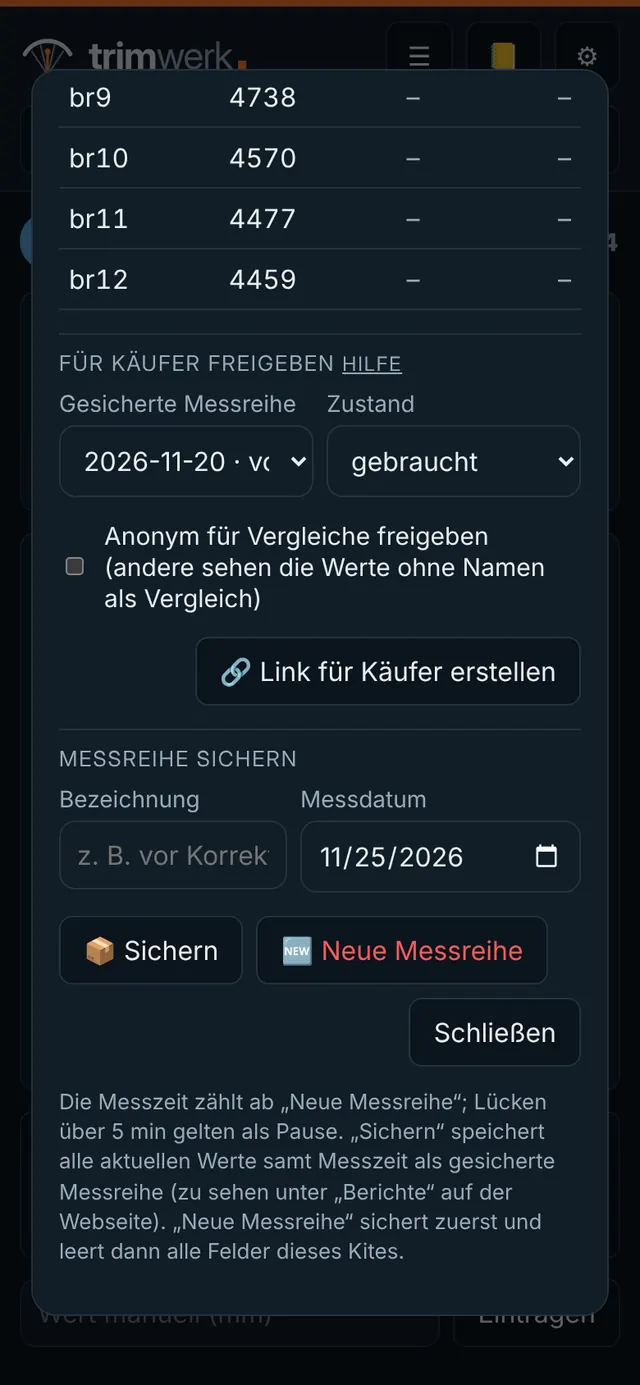
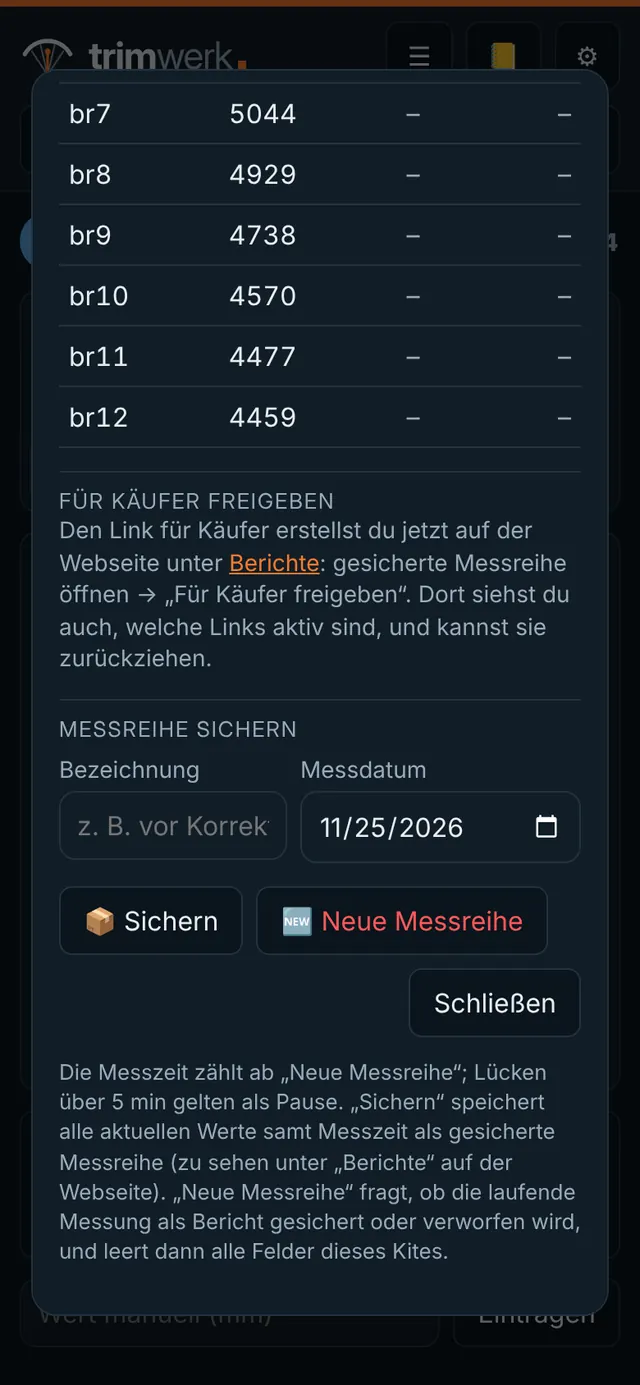
Berichte: komplette Messreihe im Protokoll, Käufer-Link (erstellen, teilen, zurückziehen) aus der App in die Berichte verschoben, Leinenvergleich standardmäßig offen; Hilfe und Screenshots aktualisiert
Claude-Session: https://claude.ai/code/session_01SxsauJVYFXbDRSU68pG8U5

diff --git a/berichte/index.html b/berichte/index.html
@@ -99,6 +99,23 @@ table.t{width:100%;border-collapse:collapse;font-size:14px}
 .toolbar{display:flex;gap:10px;flex-wrap:wrap;align-items:center}
 details summary{cursor:pointer;font:600 15px var(--f-display);letter-spacing:.06em;text-transform:uppercase;color:var(--accent-ink);margin-top:12px}
 .err{color:var(--bad)}
+.mr td.ok{color:var(--ok)} .mr td.warn{color:var(--warn)} .mr td.bad{color:var(--bad)}
+.mr td.nil{color:var(--pre)}
+.mr th,.mr td{padding:6px 8px}
+.paired .mr,.rep.b .mr{font-size:13px}
+details.sheet>summary{list-style:none;display:flex;justify-content:space-between;align-items:center;gap:10px;margin:0;color:var(--ink);text-transform:none;letter-spacing:0;font:inherit}
+details.sheet>summary::-webkit-details-marker{display:none}
+details.sheet>summary h3{font-size:24px;margin:0}
+details.sheet>summary .chev{color:var(--ink-2);font-size:14px}
+details.sheet[open]>summary{margin-bottom:12px}
+.shbox .f2{display:grid;grid-template-columns:1fr 1fr;gap:12px;align-items:end}
+@media (max-width:560px){.shbox .f2{grid-template-columns:1fr}}
+.shbox label{display:block;font-size:13px;color:var(--ink-2);margin-bottom:4px}
+.shbox select,.shbox input[type=text]{width:100%;background:var(--paper);border:1.5px solid var(--rule);border-radius:8px;color:var(--ink);padding:10px 12px;font:inherit}
+.shbox .chk{display:flex;gap:8px;align-items:flex-start;margin:12px 0;font-size:14.5px;color:var(--ink)}
+.shbox .chk input{accent-color:var(--accent);width:18px;height:18px;margin-top:2px}
+.shbox .qr{background:#fff;padding:10px;border-radius:8px;width:max-content;margin:12px 0}
+.shbox .row{display:flex;gap:10px;flex-wrap:wrap}
 .vbtn{font:600 12.5px var(--f-display);letter-spacing:.08em;text-transform:uppercase;border:1.5px solid var(--rule);background:none;color:var(--ink-2);border-radius:999px;padding:3px 10px;cursor:pointer;white-space:nowrap}
 .vbtn[aria-pressed="true"]{border-color:var(--accent);color:var(--accent)}
 .grp-h .acts{display:flex;gap:6px;flex-wrap:wrap;justify-content:flex-end}
@@ -317,6 +334,7 @@ function report(rep, slot, paired){
       <div><div class="lbl">${tag}Leinenvermessung · Protokoll</div><h2>${esc(kiteTitle(rep.kite))}</h2></div>
       <div class="meta">${metaCells.map(([l,v]) => `<div><div class="lbl">${l}</div><div class="v">${esc(v)}</div></div>`).join('')}</div>
     </header>
+    ${paired ? '' : shareBox(rep)}
     <section class="kpis" aria-label="Kennzahlen">
       ${kpi('Symmetrie', isNaN(a.sym) ? '–' : a.sym, '%', 'Leinenpaare innerhalb ±5 mm')}
       ${kpi('Ebenenabgleich', isNaN(a.gap) ? '–' : r0(a.gap), 'mm', 'größter Abstand B/C zur A-Ebene')}
@@ -343,7 +361,99 @@ function report(rep, slot, paired){
       <div class="secthead"><h3>Trimm-Logbuch</h3><span class="lbl">${dt(rep.datum)}</span></div>
       ${logRows(rep)}
     </section>
+    <section class="sheet">
+      <div class="secthead"><h3>Messreihe</h3><span class="lbl">alle Leinen · mm</span></div>
+      ${lineTable(rep)}
+    </section>
   </article>`;
+}
+function lineTable(rep){
+  const cls = d => d == null ? 'nil' : Math.abs(d) <= 5 ? 'ok' : Math.abs(d) <= 15 ? 'warn' : 'bad';
+  const levelOf = x => x.level || '?';
+  let last = '', body = '';
+  rep.lines.forEach(x => {
+    const lv = levelOf(x);
+    if (lv !== last){ last = lv; body += `<tr class="g"><td colspan="7">${NAMES[lv] || lv}</td></tr>`; }
+    const s = x.soll == null ? null : Number(x.soll), L = x.L == null ? null : Number(x.L), R = x.R == null ? null : Number(x.R);
+    const dl = L != null && s != null ? L - s : null, dr = R != null && s != null ? R - s : null, lr = L != null && R != null ? L - R : null;
+    body += `<tr><td>${esc(x.name)}</td><td class="mono">${s ?? '–'}</td><td class="mono">${L ?? '–'}</td><td class="mono">${R ?? '–'}</td>
+      <td class="mono ${cls(dl)}">${sg(dl)}</td><td class="mono ${cls(dr)}">${sg(dr)}</td><td class="mono ${cls(lr)}">${sg(lr)}</td></tr>`;
+  });
+  return `<div class="scroll"><table class="t mr"><thead><tr><th>Leine</th><th>Soll</th><th>Links</th><th>Rechts</th><th>Δ L</th><th>Δ R</th><th>L − R</th></tr></thead><tbody>${body}</tbody></table></div>
+    <p class="cnote">Δ = Ist − Soll. Farben: bis 5 mm grün, bis 15 mm gelb, darüber rot. Werte nach Abzug des Laser-Offsets.</p>`;
+}
+
+/* ---------- Käufer-Link ---------- */
+function shareBox(rep){
+  if (!rep.mine || !rep.locked) return '';
+  return `<details class="sheet shbox" id="shBox" data-id="${rep.id}">
+    <summary><h3>Für Käufer freigeben</h3><span><span class="chip" id="shStatus" style="color:var(--ink-2)">…</span> <span class="chev">▾</span></span></summary>
+    <p style="margin:0 0 12px">Ein Link (und QR-Code) zeigt genau diese Messreihe zum Lesen – ohne Konto und ohne deinen Namen. Ideal beim Verkauf eines gebrauchten Kites.</p>
+    <div class="f2">
+      <div><label for="shState">Zustand</label><select id="shState"><option>gebraucht</option><option>neu</option><option>nach Trimm</option></select></div>
+      <div></div>
+    </div>
+    <label class="chk"><input type="checkbox" id="shBasis"><span>Anonym für Vergleiche freigeben – Käufer desselben Modells sehen diese Messreihe ohne Namen als Vergleich.</span></label>
+    <div class="row"><button class="btn primary sm" id="shMake">🔗 Link für Käufer erstellen</button></div>
+    <div id="shOut" hidden>
+      <input type="text" id="shLink" readonly aria-label="Link für Käufer" style="margin-top:14px">
+      <div class="qr" id="shQr"></div>
+      <div class="row"><button class="btn sm" id="shShare">Teilen …</button><button class="btn sm" id="shCopy">Link kopieren</button><button class="btn sm" id="shOff" style="color:var(--bad)">Link zurückziehen</button></div>
+    </div>
+    <p class="cnote err" id="shErr" hidden></p>
+  </details>`;
+}
+function loadQr(){
+  return window.QRCode ? Promise.resolve() : new Promise((ok, bad) => {
+    const sc = document.createElement('script');
+    sc.src = 'https://cdnjs.cloudflare.com/ajax/libs/qrcodejs/1.0.0/qrcode.min.js';
+    sc.onload = ok; sc.onerror = bad; document.head.appendChild(sc);
+  });
+}
+async function shareInit(rep){
+  const box = $('shBox'); if (!box) return;
+  const err = m => { $('shErr').textContent = m; $('shErr').hidden = !m; };
+  const showLink = async token => {
+    const link = new URL('../vergleich/index.html', location.href).href + '?t=' + token;
+    $('shLink').value = link; $('shOut').hidden = false; $('shQr').innerHTML = '';
+    try { await loadQr(); new QRCode($('shQr'), {text: link, width: 180, height: 180, correctLevel: QRCode.CorrectLevel.M}); }
+    catch (e) { $('shQr').textContent = 'QR-Code gerade nicht verfügbar'; }
+  };
+  const status = (on, opt) => { const c = $('shStatus'); c.textContent = on ? (opt ? 'Link aktiv · im Vergleich' : 'Link aktiv') : 'nicht freigegeben'; c.className = 'chip' + (on ? ' ok' : ''); c.style.color = on ? '' : 'var(--ink-2)'; $('shMake').textContent = on ? '🔗 Link aktualisieren' : '🔗 Link für Käufer erstellen'; };
+  $('shState').value = rep.zustand || 'gebraucht';
+  try {
+    const r = await sb.from('measurements').select('share_token, share_active, compare_opt_in, state').eq('id', rep.id).single();
+    if (r.error) throw new Error(r.error.message);
+    const m = r.data; if (m.state) $('shState').value = m.state; $('shBasis').checked = !!m.compare_opt_in;
+    status(m.share_active && m.share_token, m.compare_opt_in);
+    if (m.share_active && m.share_token){ box.open = true; showLink(m.share_token); }
+  } catch (e) { status(false); }
+  $('shMake').onclick = async () => {
+    err(''); $('shMake').disabled = true;
+    try {
+      const st = $('shState').value;
+      const u = await sb.from('measurements').update({state: st}).eq('id', rep.id); if (u.error) throw new Error(u.error.message);
+      const token = await rpc('share_enable', {m: rep.id, opt_in: $('shBasis').checked});
+      rep.zustand = st; LIST.forEach(x => { if (x.id === rep.id) x.zustand = st; });
+      status(true, $('shBasis').checked); await showLink(token); drawList();
+    } catch (e) { err(e.message); }
+    $('shMake').disabled = false;
+  };
+  $('shCopy').onclick = async () => { try { await navigator.clipboard.writeText($('shLink').value); $('shCopy').textContent = 'Kopiert ✓'; setTimeout(() => $('shCopy').textContent = 'Link kopieren', 2000); } catch (e) { $('shLink').select(); } };
+  $('shShare').onclick = async () => {
+    const url = $('shLink').value;
+    if (navigator.share) { try { await navigator.share({title: 'Messprotokoll ' + kiteTitle(rep.kite), text: 'Vermessung meines Kites bei Trimwerk', url}); } catch (e) {} }
+    else $('shCopy').click();
+  };
+  let offArmed = false;
+  $('shOff').onclick = async () => {
+    if (!offArmed){ offArmed = true; $('shOff').textContent = 'Wirklich zurückziehen? Nochmal tippen'; setTimeout(() => { offArmed = false; $('shOff').textContent = 'Link zurückziehen'; }, 4000); return; }
+    err('');
+    try {
+      const u = await sb.from('measurements').update({share_active: false}).eq('id', rep.id); if (u.error) throw new Error(u.error.message);
+      $('shOut').hidden = true; status(false);
+    } catch (e) { err(e.message); }
+  };
 }
 
 /* ---------- Vergleich ---------- */
@@ -372,7 +482,7 @@ function compare(A, B){
   if (A.kite === B.kite){
     const bm = Object.fromEntries(B.lines.map(x => [x.name, x]));
     const dv = (x, s) => x == null || s == null ? null : Number(x) - Number(s);
-    lines = `<details><summary>Alle Leinen vergleichen</summary><div class="scroll"><table class="t" style="margin-top:8px"><thead><tr><th>Leine</th><th>Soll</th><th><span class="tagA">A</span>L</th><th><span class="tagA">A</span>R</th><th><span class="tagB">B</span>L</th><th><span class="tagB">B</span>R</th><th>Δ Ø</th></tr></thead><tbody>
+    lines = `<details open><summary>Alle Leinen vergleichen</summary><div class="scroll"><table class="t" style="margin-top:8px"><thead><tr><th>Leine</th><th>Soll</th><th><span class="tagA">A</span>L</th><th><span class="tagA">A</span>R</th><th><span class="tagB">B</span>L</th><th><span class="tagB">B</span>R</th><th>Δ Ø</th></tr></thead><tbody>
       ${A.lines.map(x => { const y = bm[x.name] || {}; const s = x.soll ?? y.soll;
         const al = dv(x.L, s), ar = dv(x.R, s), bl = dv(y.L, s), br = dv(y.R, s);
         const ma = mean([al, ar].filter(v => v != null)), mb = mean([bl, br].filter(v => v != null));
@@ -494,7 +604,7 @@ async function show(){
   v.innerHTML = '<div class="empty">Bericht wird geladen …</div>';
   try {
     const reps = await Promise.all(SEL.map(getRep));
-    if (reps.length === 1) v.innerHTML = report(reps[0], '', false);
+    if (reps.length === 1){ v.innerHTML = report(reps[0], '', false); shareInit(reps[0]); }
     else v.innerHTML = compare(reps[0], reps[1]) + `<div class="pair">${report(reps[0], 'A', true)}${report(reps[1], 'B', true)}</div>`;
     const sw = $('swap'); if (sw) sw.onclick = () => { SEL.reverse(); show(); };
     const cb = $('closeB'); if (cb) cb.onclick = () => { SEL = SEL.slice(0, 1); show(); };

diff --git a/hilfe/index.html b/hilfe/index.html
@@ -245,7 +245,7 @@ pre.code{font-family:"IBM Plex Mono",ui-monospace,Menlo,Consolas,monospace;font-
           <div>
             <p><span class="ui">☰</span> (oder Tipp auf den Leinennamen) öffnet die Übersicht aller Leinen mit Soll, links und rechts. Ein Tipp auf einen Wert springt zu dieser Leine.</p>
             <p><b>Vergleich mit gesicherter Messreihe:</b> Oben eine frühere Messreihe wählen – z. B. die Eingangsmessung vor dem Trimm. Die Werte stehen dann daneben, so siehst du direkt, was sich verändert hat.</p>
-            <p>Am großen Bildschirm öffnet sich die Übersicht als ganze Seite, mit Freigabe und Sichern in der rechten Spalte.</p>
+            <p>Am großen Bildschirm öffnet sich die Übersicht als ganze Seite, mit Sichern und Neue Messreihe in der rechten Spalte.</p>
           </div>
           <figure class="shot"><img src="img/app_list.webp" width="640" height="1385" loading="lazy" alt="Übersicht aller Leinen mit Soll und Messwerten links und rechts"><figcaption>Übersicht: Soll, links, rechts</figcaption></figure>
         </div>
@@ -266,7 +266,7 @@ pre.code{font-family:"IBM Plex Mono",ui-monospace,Menlo,Consolas,monospace;font-
             <p>Gesicherte Messreihen findest du auf der Webseite unter <a href="#berichte">Berichte</a>.</p>
             <div class="warn">Gesichert ist gesichert: Werte einer gesicherten Messreihe lassen sich nicht mehr ändern. Das macht Berichte für Käufer glaubwürdig.</div>
           </div>
-          <figure class="shot"><img src="img/app_list_share.webp" width="640" height="1385" loading="lazy" alt="Bereich Für Käufer freigeben und Messreihe sichern"><figcaption>Unten in der Übersicht: Käufer-Freigabe und Sichern</figcaption></figure>
+          <figure class="shot"><img src="img/app_list_share.webp" width="640" height="1385" loading="lazy" alt="Bereich Messreihe sichern"><figcaption>Unten in der Übersicht: Messreihe sichern</figcaption></figure>
         </div>
       </article>
 
@@ -380,7 +380,7 @@ pre.code{font-family:"IBM Plex Mono",ui-monospace,Menlo,Consolas,monospace;font-
           <div>
             <p>Links stehen deine Kites mit ihren Messreihen, darunter Kites, die andere mit dir geteilt haben („von …“). Mit <span class="ui">Alle</span> · <span class="ui">Meine</span> · <span class="ui">Geteilt</span> filtern, im Suchfeld nach Kite oder Name suchen.</p>
             <p>Ein Tipp auf eine Messreihe öffnet den Bericht. Auch die <b>laufende Messung</b> erscheint – als Zwischenstand, noch nicht gesichert.</p>
-            <p>Jeder Bericht enthält: Kopfdaten (Datum, Zustand, Messpunkte, Messzeit), Kennzahlen, Ebenen-Übersicht, Abweichung je Leine, Symmetrie links/rechts und die Trimm-Einträge vom selben Tag.</p>
+            <p>Jeder Bericht enthält: Kopfdaten (Datum, Zustand, Messpunkte, Messzeit), Kennzahlen, Ebenen-Übersicht, Abweichung je Leine, Symmetrie links/rechts, die Trimm-Einträge vom selben Tag und am Ende die <b>komplette Messreihe</b> mit Soll, links, rechts und den Abweichungen jeder Leine. Bei eigenen gesicherten Messreihen steht oben zusätzlich <b>Für Käufer freigeben</b>.</p>
           </div>
           <figure class="shot"><img src="img/ber_list.webp" width="640" height="1385" loading="lazy" alt="Liste Meine Berichte mit eigenen und geteilten Kites"><figcaption>Eigene und geteilte Kites</figcaption></figure>
         </div>
@@ -421,7 +421,7 @@ pre.code{font-family:"IBM Plex Mono",ui-monospace,Menlo,Consolas,monospace;font-
           <tr><th>Δ B − A</th><td>Der Unterschied: Wert von B minus Wert von A. <span style="color:#3cc487"><b>Grün</b></span> = B ist besser (näher am Plan, symmetrischer, kleinerer Abstand der Ebenen), <span style="color:#ef6a5b"><b>rot</b></span> = B ist schlechter. Ohne Farbe = praktisch gleich (unter 1 mm).</td></tr>
           <tr><th>Obere Zeilen</th><td>Die vier Kennzahlen: Symmetrie, Ebenenabgleich, Z links − rechts, A-Ebene vs. Plan (siehe <a href="#kennzahlen">Kennzahlen</a>).</td></tr>
           <tr><th>Je Ebene</th><td>Für A, B, C und Z: Ø Ist − Soll, größte Seitendifferenz |L − R| und Streuung.</td></tr>
-          <tr><th>Alle Leinen vergleichen</th><td>Nur beim selben Kite: jede Leine einzeln mit Soll, Abweichung links/rechts von A und B und Δ des Mittelwerts. Zum Aufklappen unter der Tabelle.</td></tr>
+          <tr><th>Alle Leinen vergleichen</th><td>Nur beim selben Kite: jede Leine einzeln mit Soll, Abweichung links/rechts von A und B und Δ des Mittelwerts – direkt unter der Tabelle. Zusätzlich steht am Ende jedes Berichts die komplette Messreihe, im Vergleich also beide nebeneinander.</td></tr>
         </tbody></table>
         <div class="tip"><b>Welche Reihe ist A, welche B?</b> Am leichtesten zu lesen ist es, wenn <b>A die ältere</b> und <b>B die neuere</b> Messung ist – dann zeigt Δ, was sich seither verändert hat (grün = besser geworden). Falsch herum gewählt? <span class="ui">A ⇄ B</span> tauscht die Seiten.</div>
 
@@ -483,13 +483,14 @@ pre.code{font-family:"IBM Plex Mono",ui-monospace,Menlo,Consolas,monospace;font-
         <h3>Link oder QR-Code erstellen</h3>
         <ol>
           <li>Messreihe in der App sichern (siehe <a href="#sichern">Messreihe sichern</a>).</li>
-          <li><span class="ui">☰</span> → <b>Für Käufer freigeben</b>: gesicherte Messreihe und Zustand (gebraucht, neu, nach Trimm) wählen.</li>
-          <li><span class="ui">🔗 Link für Käufer erstellen</span> – du bekommst einen Link und einen QR-Code zum Teilen oder Kopieren.</li>
+          <li>Auf der Webseite unter <a href="../berichte/index.html">Berichte</a> die gesicherte Messreihe öffnen.</li>
+          <li>Oben <b>Für Käufer freigeben</b> aufklappen, Zustand wählen (gebraucht, neu, nach Trimm) und <span class="ui">🔗 Link für Käufer erstellen</span>.</li>
+          <li>Du bekommst einen Link und einen QR-Code – mit <span class="ui">Teilen …</span> direkt per Messenger oder E-Mail, oder <span class="ui">Link kopieren</span>.</li>
         </ol>
         <p>Der Käufer braucht <b>kein Konto</b>. Er sieht nur diese eine Messreihe zum Lesen, neben dem Leinenplan – ohne deinen Namen.</p>
         <p><b>Anonym für Vergleiche freigeben</b> (Häkchen): Dann darf deine Messreihe ohne Namen als Vergleich bei Käufern desselben Modells erscheinen. Ohne Häkchen bleibt sie nur über deinen Link sichtbar.</p>
+        <p>Rechts neben der Überschrift siehst du, ob ein Link aktiv ist. <span class="ui">Link zurückziehen</span> (zweimal tippen) macht ihn sofort ungültig – z. B. nach dem Verkauf. Erstellst du später wieder einen Link, gilt die alte Adresse wieder.</p>
         <div class="tip">Käufer-Freigabe und Freigabe an Freunde sind unabhängig voneinander: Der Käufer-Link zeigt genau eine Messreihe öffentlich, die Freunde-Freigabe zeigt angemeldeten Mitgliedern alle gesicherten Messreihen eines Kites.</div>
-        <div class="todo"><b>✎ Offen:</b> Einen Käufer-Link zurückziehen geht derzeit noch nicht selbst – kommt in einem der nächsten Schritte.</div>
       </article>
     </section>
 

diff --git a/app/index.html b/app/index.html
@@ -307,22 +307,8 @@
   <p class="hint" id="listHint">Auf einen Wert tippen, um dorthin zu springen.</p>
   <table id="tbl"></table>
   </div><div class="dside">
-  <div class="sec">Für Käufer freigeben <a href="../hilfe/index.html#kaeufer" target="_blank" rel="noopener" style="color:var(--muted);font-size:12px">Hilfe</a></div>
-  <div class="f2">
-    <div><label for="shSel">Gesicherte Messreihe</label><select id="shSel"><option value="">– zuerst sichern –</option></select></div>
-    <div><label for="shState">Zustand</label><select id="shState"><option>gebraucht</option><option>neu</option><option>nach Trimm</option></select></div>
-  </div>
-  <label class="chk"><input type="checkbox" id="shBasis"> Anonym für Vergleiche freigeben (andere sehen die Werte ohne Namen als Vergleich)</label>
-  <div class="row"><button class="btn" id="shMake" type="button">🔗 Link für Käufer erstellen</button></div>
-  <div id="shOut" hidden style="margin-top:10px">
-    <input id="shLink" readonly aria-label="Freigabe-Link" style="width:100%">
-    <div id="shQr" style="background:#fff;padding:10px;width:max-content;margin:10px 0;border-radius:6px"></div>
-    <div class="row" style="flex-wrap:wrap">
-      <button class="btn" id="shShare" type="button">Teilen …</button>
-      <button class="btn" id="shCopy" type="button">Link kopieren</button>
-    </div>
-    <p class="hint" style="font-size:13px">Käufer sehen diese Messreihe nur zum Lesen, neben dem Leinenplan und den Messungen desselben Modells, die ihre Besitzer anonym freigegeben haben.</p>
-  </div>
+  <div class="sec">Für Käufer freigeben</div>
+  <p class="hint" style="margin:0 0 8px">Den Link für Käufer erstellst du jetzt auf der Webseite unter <a href="../berichte/index.html" target="_blank" rel="noopener" style="color:var(--accent)">Berichte</a>: gesicherte Messreihe öffnen → „Für Käufer freigeben“. Dort siehst du auch, welche Links aktiv sind, und kannst sie zurückziehen.</p>
   <div class="sec">Messreihe sichern</div>
   <div class="f2">
     <div><label for="arLabel">Bezeichnung</label><input id="arLabel" placeholder="z. B. vor Korrektur Z-Ebene"></div>
@@ -1038,39 +1024,7 @@ async function arLoadList(){
   $('cmpSel').innerHTML = '<option value="">– kein Vergleich –</option>' + arList.map(x =>
     `<option value="${esc(x.id)}">${esc(x.datum)} · ${esc(x.label || 'ohne Bezeichnung')} (${x.gemessen}/${x.n})${x.messzeit !== '' && x.messzeit != null ? ' · ' + hm(+x.messzeit) : ''}</option>`).join('');
   $('cmpSel').value = cmp ? cmp.id : '';
-  $('shSel').innerHTML = arList.length ? arList.map(x => `<option value="${esc(x.id)}">${esc(x.datum)} · ${esc(x.label || 'ohne Bezeichnung')}</option>`).join('')
-    : '<option value="">– zuerst sichern –</option>';
-  $('shOut').hidden = true;
 }
-/* Freigabe-Link für Käufer */
-function loadQr(){
-  return window.QRCode ? Promise.resolve() : new Promise((ok, bad) => {
-    const sc = document.createElement('script');
-    sc.src = 'https://cdnjs.cloudflare.com/ajax/libs/qrcodejs/1.0.0/qrcode.min.js';
-    sc.onload = ok; sc.onerror = bad; document.head.appendChild(sc);
-  });
-}
-$('shMake').onclick = async () => {
-  const id = $('shSel').value; if (!id) return showToast('Zuerst eine Messreihe sichern (📦)');
-  const dep = window.SBAPI ? '' : (/\/s\/([^/]+)\/exec/.exec(cfg.url) || [])[1];
-  if (!window.SBAPI && !dep) return showToast('⚠ Skript-URL in ⚙ prüfen');
-  $('shMake').disabled = true;
-  try{
-    const j = await api({ action:'share_create', id, zustand: $('shState').value, serial: store.get('serial:' + kite, ''), basis: $('shBasis').checked ? '1' : '0' });
-    const link = new URL('../vergleich/index.html', location.href).href + `?t=${j.token}` + (dep ? `&s=${dep}` : '');
-    $('shLink').value = link; $('shOut').hidden = false; $('shQr').innerHTML = '';
-    try{ await loadQr(); new QRCode($('shQr'), { text: link, width: 180, height: 180, correctLevel: QRCode.CorrectLevel.M }); }
-    catch(e){ $('shQr').textContent = 'QR-Code gerade nicht verfügbar'; }
-    showToast(j.existing ? 'Bestehender Link für diese Messreihe ✓' : 'Link erstellt ✓');
-  }catch(e){ showToast('⚠ ' + (/Unbekannte Aktion|unknown/i.test(e.message) ? 'Skript noch ohne Freigabe – freigabe.gs einbauen' : e.message)); }
-  finally{ $('shMake').disabled = false; }
-};
-$('shCopy').onclick = async () => { try{ await navigator.clipboard.writeText($('shLink').value); showToast('Link kopiert ✓'); }catch(e){ $('shLink').select(); } };
-$('shShare').onclick = async () => {
-  const url = $('shLink').value;
-  if (navigator.share){ try{ await navigator.share({ title: 'Messprotokoll ' + kite, text: 'Vermessung meines Kites bei Trimwerk', url }); }catch(e){} }
-  else { try{ await navigator.clipboard.writeText(url); showToast('Link kopiert ✓'); }catch(e){} }
-};
 async function cmpSet(id, quiet){
   if (!id){ cmp = null; store.set(cmpKey(), ''); render(); if ($('list').open) listRender(); return; }
   try{
